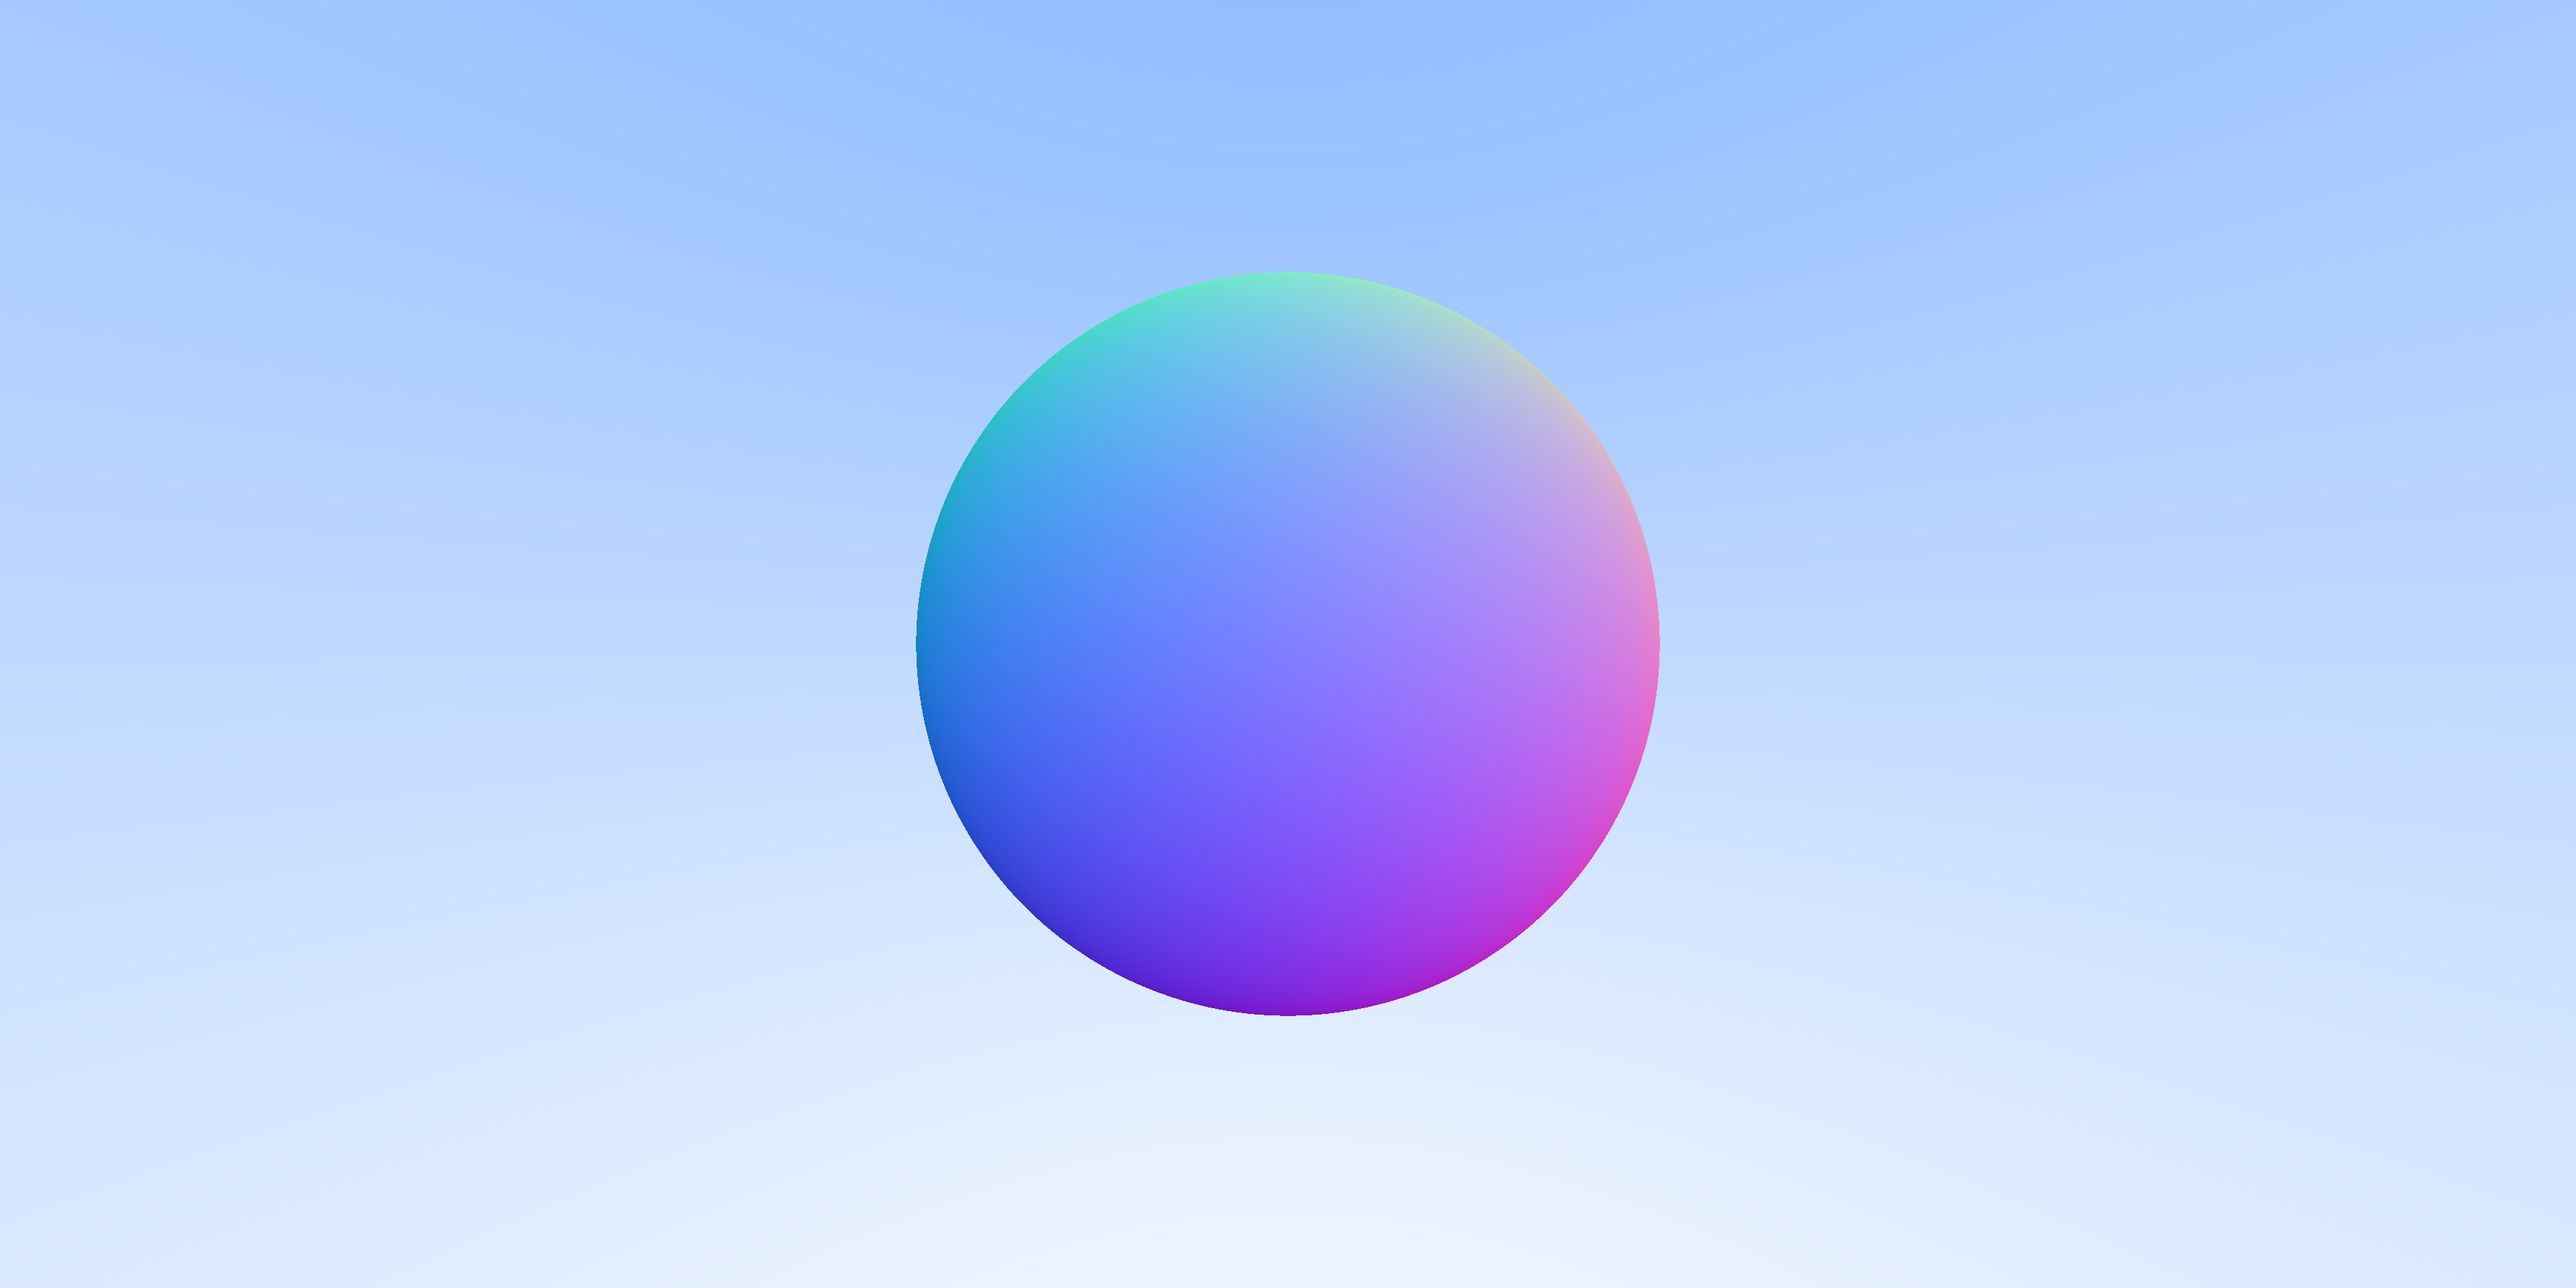
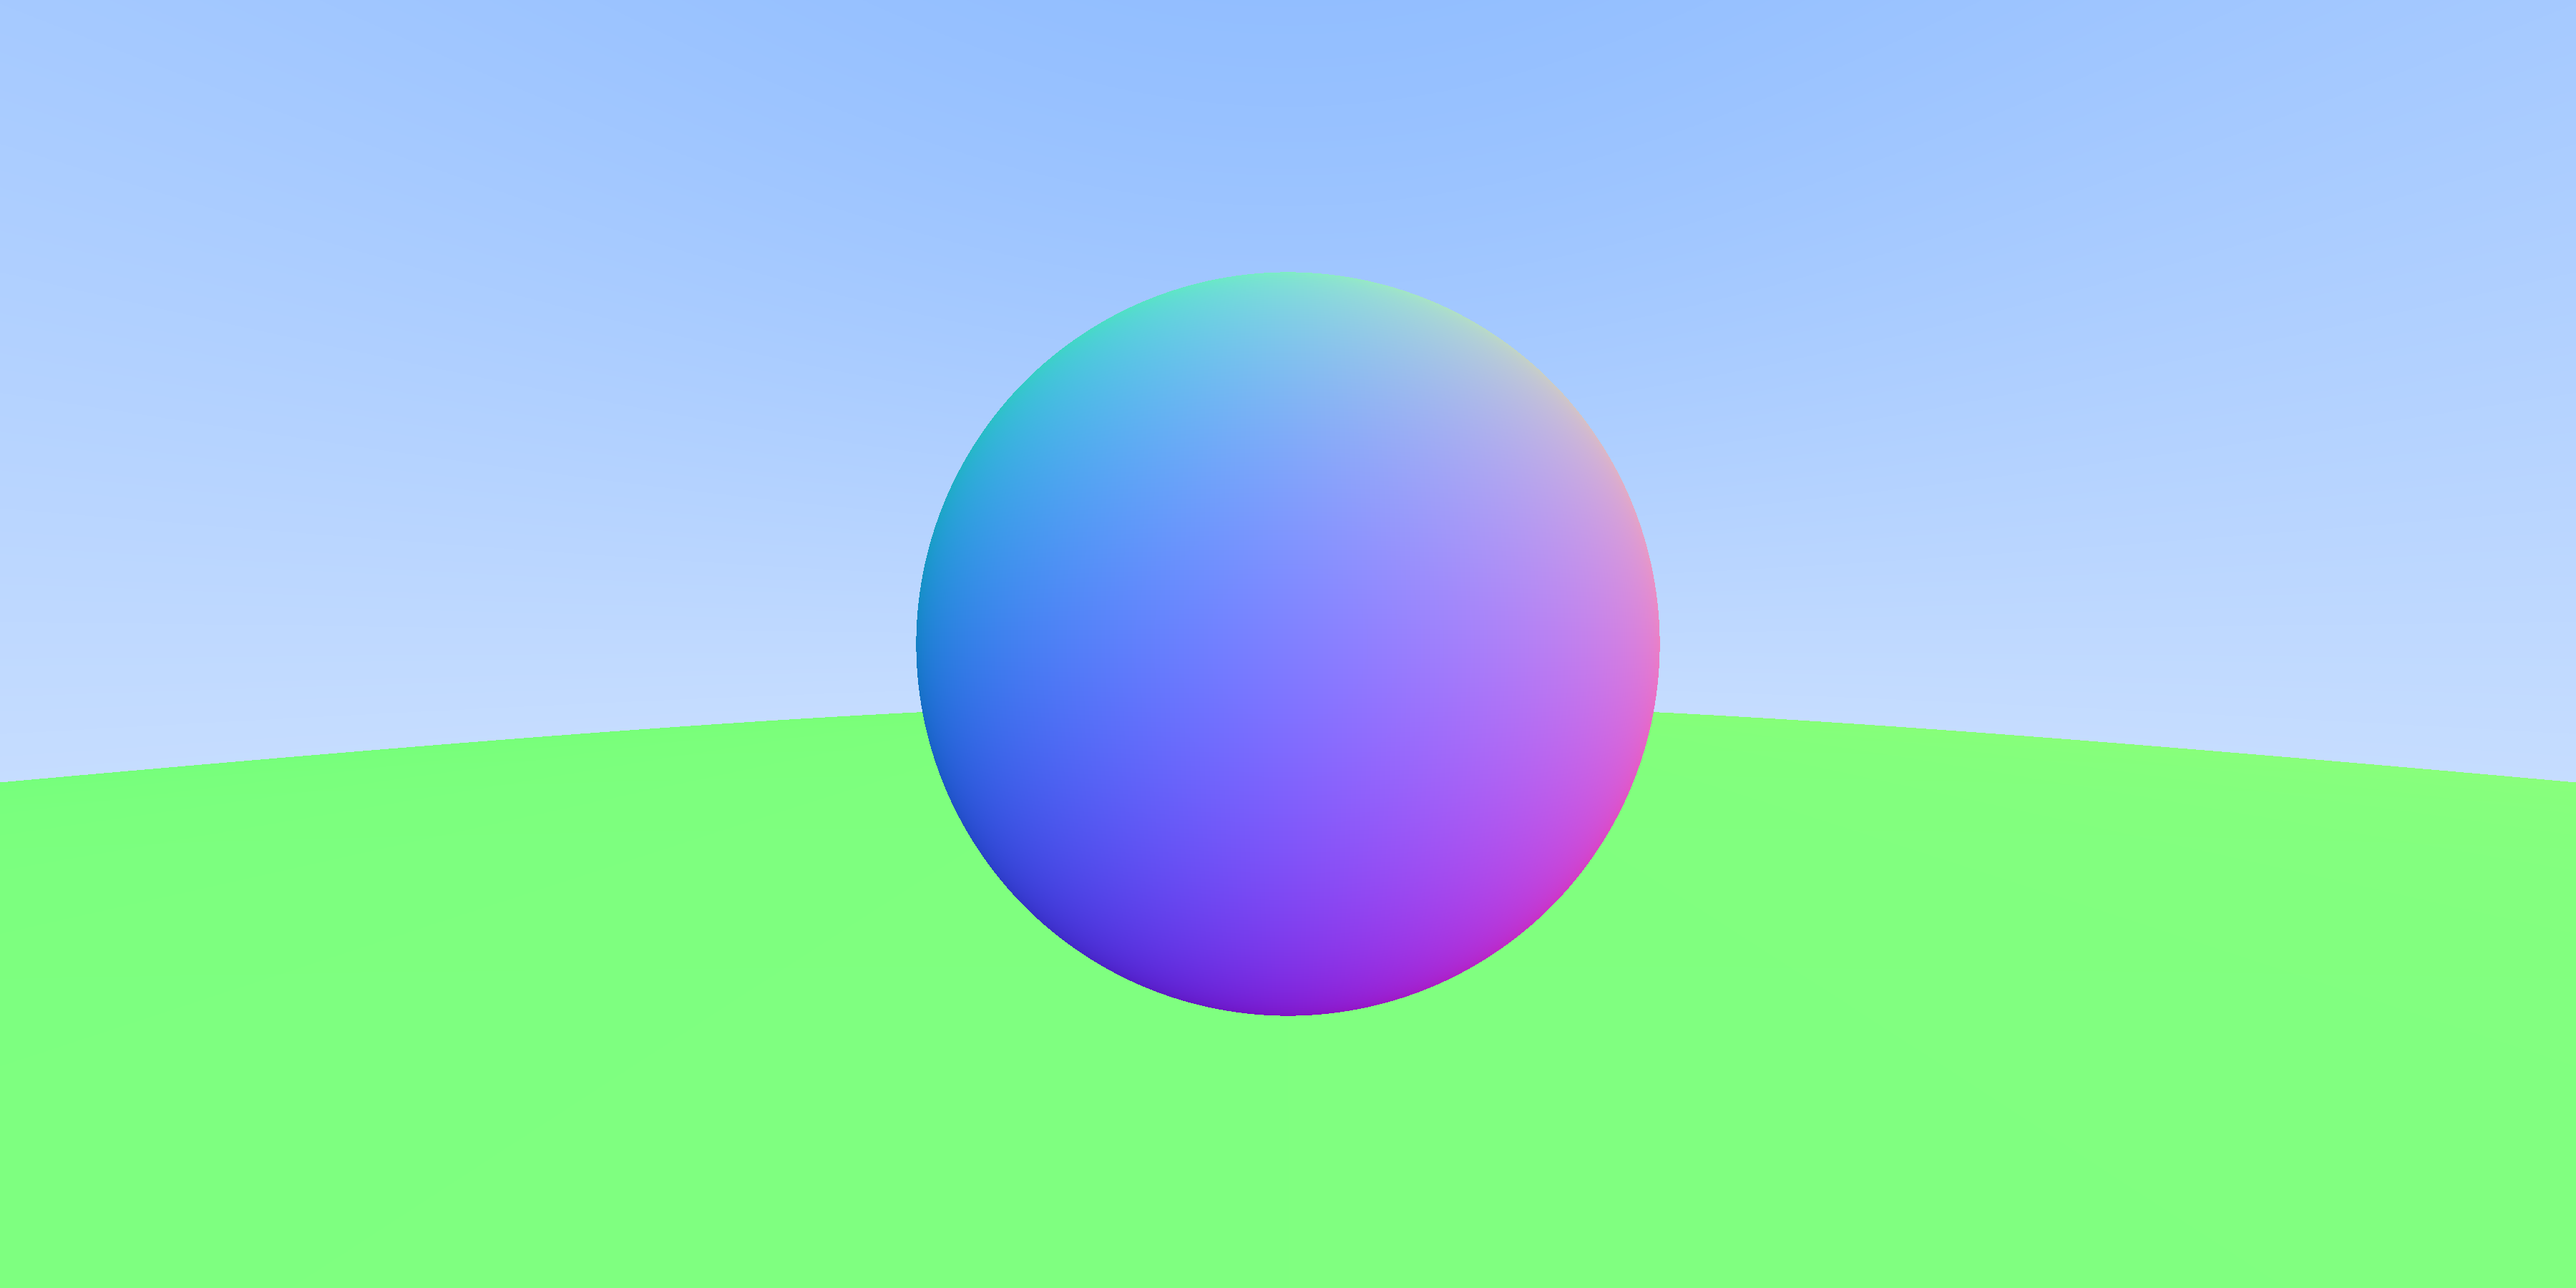
Multiple Objects.

diff --git a/sphere.h b/sphere.h
@@ -1,0 +1,41 @@
+#pragma once
+
+#include "hittable.h"
+#include "vec3.h"
+
+class sphere : public hittable 
+{
+public:
+    __device__ sphere(vec3 _center, float _radius) : center(_center), radius(_radius) {}
+
+    __device__ bool hit(const ray& r, float ray_tmin, float ray_tmax, hit_record& rec) const override
+    {
+        vec3 oc = r.origin() - center;
+        auto a = r.direction().length_squared();
+        auto half_b = dot(oc, r.direction());
+        auto c = oc.length_squared() - radius * radius;
+
+        auto discriminant = half_b * half_b - a * c;
+        if (discriminant < 0) return false;
+        auto sqrtd = sqrt(discriminant);
+
+        // Find the nearest root that lies in the acceptable range.
+        auto root = (-half_b - sqrtd) / a;
+        if (root <= ray_tmin || ray_tmax <= root) 
+        {
+            root = (-half_b + sqrtd) / a;
+            if (root <= ray_tmin || ray_tmax <= root)
+                return false;
+        }
+
+        rec.t = root;
+        rec.p = r.at(rec.t);
+        vec3 outward_normal = (rec.p - center) / radius;
+        rec.set_face_normal(r, outward_normal);
+
+        return true;
+    }
+
+    vec3 center;
+    float radius;
+};

diff --git a/hittable_list.h b/hittable_list.h
@@ -1,0 +1,31 @@
+#pragma once
+
+#include "hittable.h"
+
+class hittable_list : public hittable
+{
+public:
+	__device__ hittable_list() {}
+	__device__ hittable_list(hittable** l, int n) { list = l; list_size = n; }
+	__device__ bool hit(const ray& r, float ray_tmin, float ray_tmax, hit_record& rec) const override
+	{
+		hit_record temp_rec;
+		bool hit_anything = false;
+		auto closest_so_far = ray_tmax;
+
+		for (int i = 0; i < list_size; i++)
+		{
+			if (list[i]->hit(r, ray_tmin, closest_so_far, temp_rec))
+			{
+				hit_anything = true;
+				closest_so_far = temp_rec.t;
+				rec = temp_rec;
+			}
+		}
+
+		return hit_anything;
+	}
+
+	hittable** list;
+	int list_size;
+};

diff --git a/hittable.h b/hittable.h
@@ -1,0 +1,24 @@
+#pragma once
+
+#include "ray.h"
+
+class hit_record
+{
+public:
+	vec3 p;
+	vec3 normal;
+	float t;
+	bool front_face;
+
+	__device__ void set_face_normal(const ray& r, const vec3& outward_normal)
+	{
+		front_face = dot(r.direction(), outward_normal) < 0;
+		normal = front_face ? outward_normal : -outward_normal;
+	}
+};
+
+class hittable
+{
+public:
+	__device__ virtual bool hit(const ray& r, float ray_tmin, float ray_tmax, hit_record& rec) const = 0;
+};
